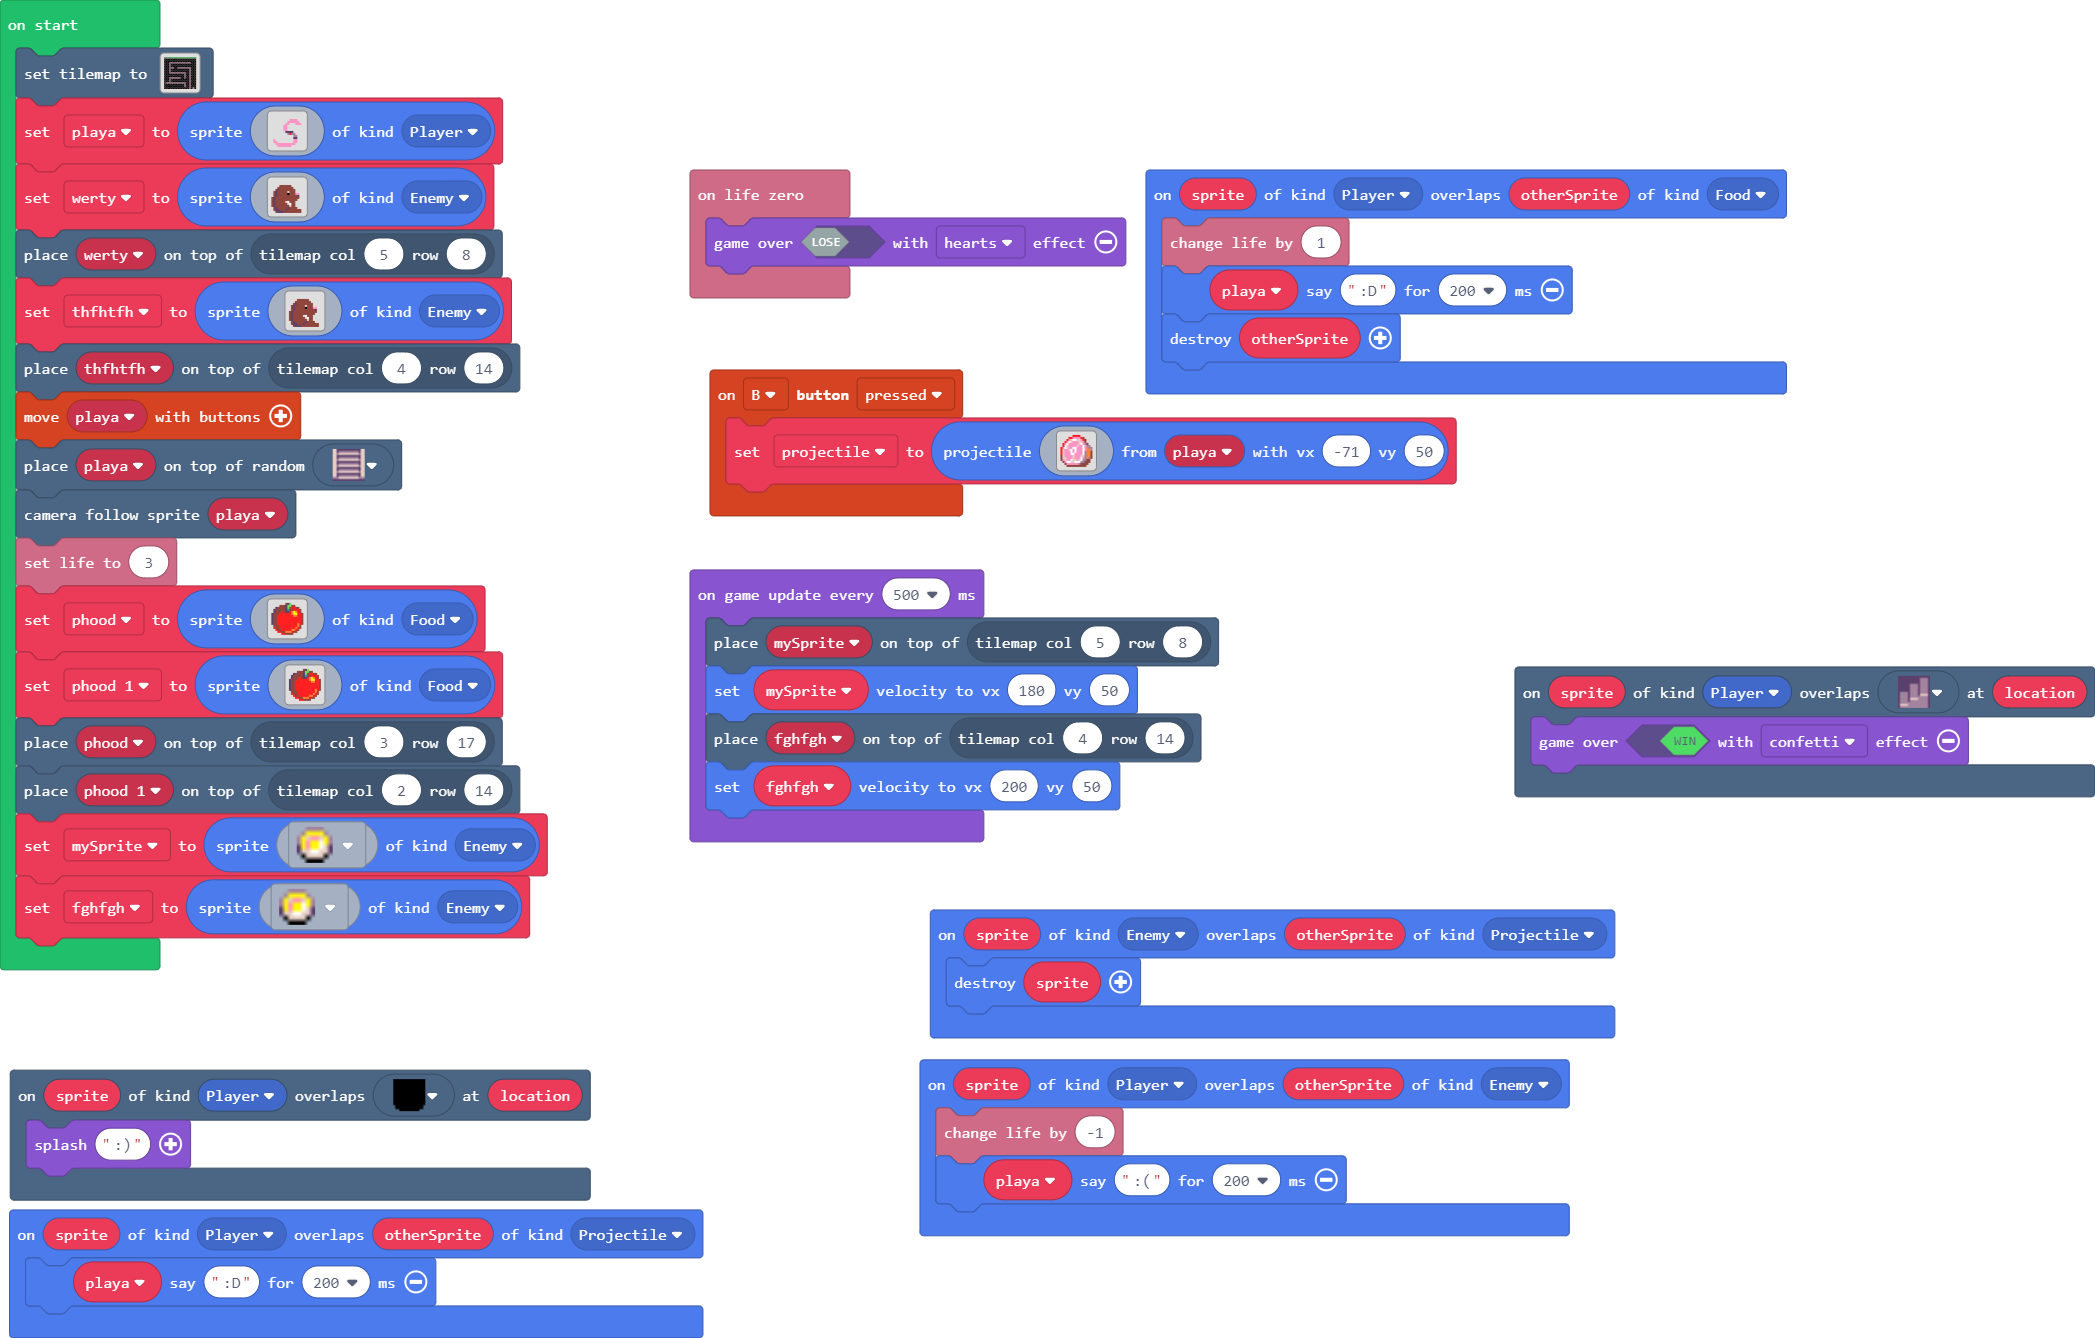
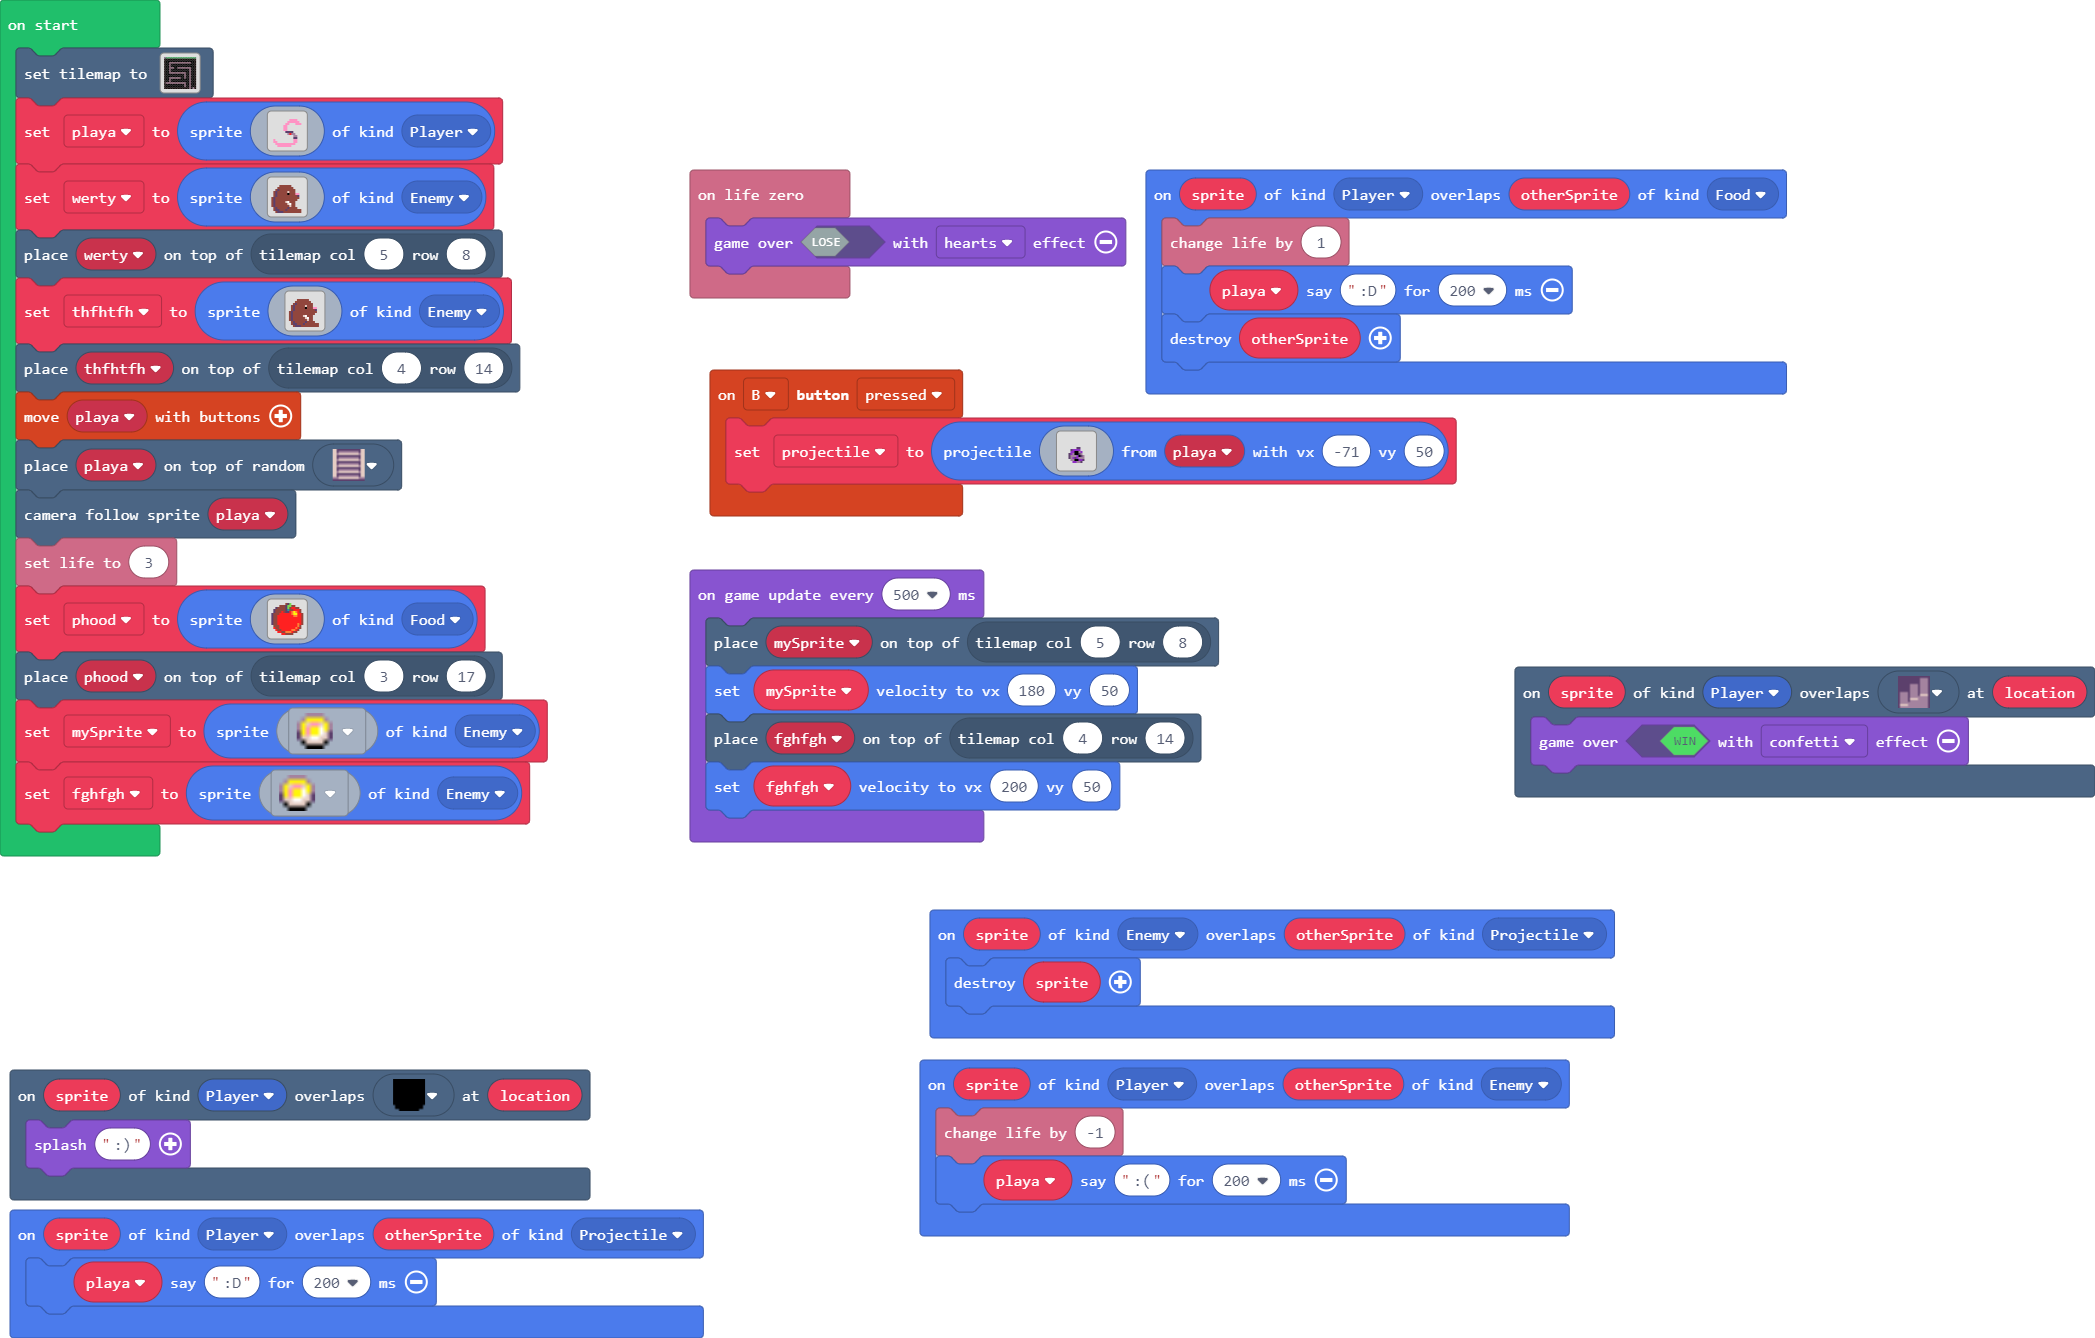
gdfgd

Changed region(s): [[0.0, 0.4596, 0.2792, 0.7354], [0.4964, 0.3064, 0.5274, 0.3677]]

diff --git a/main.ts b/main.ts
@@ -24,22 +24,22 @@ scene.onOverlapTile(SpriteKind.Player, sprites.builtin.forestTiles14, function (
 })
 controller.B.onEvent(ControllerButtonEvent.Pressed, function () {
     projectile = sprites.createProjectileFromSprite(img`
-. . . . . . 2 2 2 2 . . . . . . 
-. . . . 2 2 3 3 3 3 2 e . . . . 
-. . . 2 3 d 1 1 d d 3 2 e . . . 
-. . 2 3 1 d 3 3 3 d d 3 e . . . 
-. 2 3 1 3 3 3 3 3 d 1 3 b e . . 
-. 2 1 d 3 3 3 3 d 3 3 1 3 b b . 
-2 3 1 d 3 3 1 1 3 3 3 1 3 4 b b 
-2 d 3 3 d 1 3 1 3 3 3 1 3 4 4 b 
-2 d 3 3 3 1 3 1 3 3 3 1 b 4 4 e 
-2 d 3 3 3 1 1 3 3 3 3 1 b 4 4 e 
-e d 3 3 3 3 d 3 3 3 d d b 4 4 e 
-e d d 3 3 3 d 3 3 3 1 3 b 4 b e 
-e 3 d 3 3 1 d d 3 d 1 b b e e . 
-. e 3 1 1 d d 1 1 1 b b e e e . 
-. . e 3 3 3 3 3 3 b e e e e . . 
-. . . e e e e e e e e e e . . . 
+. . . . . . . . . . . . . . . . 
+. . . . . . . . . . . . . . . . 
+. . . . . . . . . . . . . . . . 
+. . . . . . . . . . . . . . . . 
+. . . . . . . . . . . . . . . . 
+. . . . . . . . . . . . . . . . 
+. . . . . . . . c c . . . . . . 
+. . . . . c a a a a . . . . . . 
+. . . . . a a f f b a . . . . . 
+. . . . c a b f f c b . . . . . 
+. . . . c b b b a f c b . . . . 
+. . . . c b a c a b b b . . . . 
+. . . . . b b f f a a c . . . . 
+. . . . . . a a b b c . . . . . 
+. . . . . . . . . . . . . . . . 
+. . . . . . . . . . . . . . . . 
 `, playa, -71, 50)
 })
 sprites.onOverlap(SpriteKind.Player, SpriteKind.Food, function (sprite, otherSprite) {
@@ -169,26 +169,7 @@ c e e 2 2 2 2 2 2 2 2 2 2 4 2 e
 . . . 2 2 e e 4 4 4 2 e e . . . 
 . . . . . 2 2 e e e e . . . . . 
 `, SpriteKind.Food)
-let phood_1 = sprites.create(img`
-. . . . . . . e c 7 . . . . . . 
-. . . . e e e c 7 7 e e . . . . 
-. . c e e e e c 7 e 2 2 e e . . 
-. c e e e e e c 6 e e 2 2 2 e . 
-. c e e e 2 e c c 2 4 5 4 2 e . 
-c e e e 2 2 2 2 2 2 4 5 5 2 2 e 
-c e e 2 2 2 2 2 2 2 2 4 4 2 2 e 
-c e e 2 2 2 2 2 2 2 2 2 2 2 2 e 
-c e e 2 2 2 2 2 2 2 2 2 2 2 2 e 
-c e e 2 2 2 2 2 2 2 2 2 2 2 2 e 
-c e e 2 2 2 2 2 2 2 2 2 2 4 2 e 
-. e e e 2 2 2 2 2 2 2 2 2 4 e . 
-. 2 e e 2 2 2 2 2 2 2 2 4 2 e . 
-. . 2 e e 2 2 2 2 2 4 4 2 e . . 
-. . . 2 2 e e 4 4 4 2 e e . . . 
-. . . . . 2 2 e e e e . . . . . 
-`, SpriteKind.Food)
 tiles.placeOnTile(phood, tiles.getTileLocation(3, 17))
-tiles.placeOnTile(phood_1, tiles.getTileLocation(2, 14))
 let mySprite = sprites.create(sprites.builtin.coin0, SpriteKind.Enemy)
 let fghfgh = sprites.create(sprites.builtin.coin0, SpriteKind.Enemy)
 game.onUpdateInterval(500, function () {
